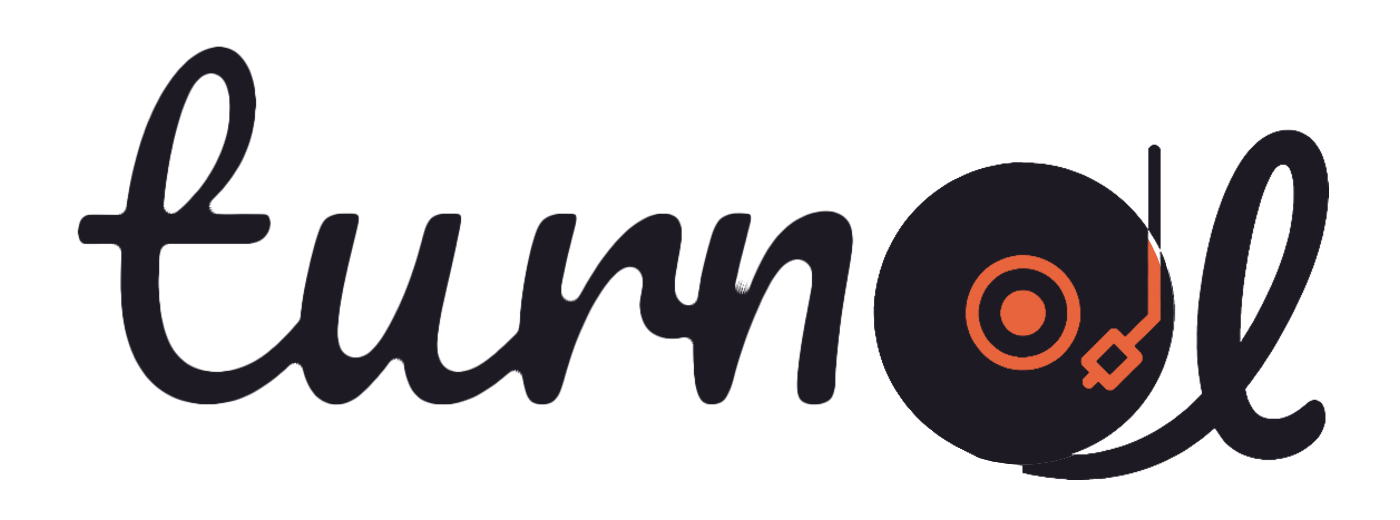
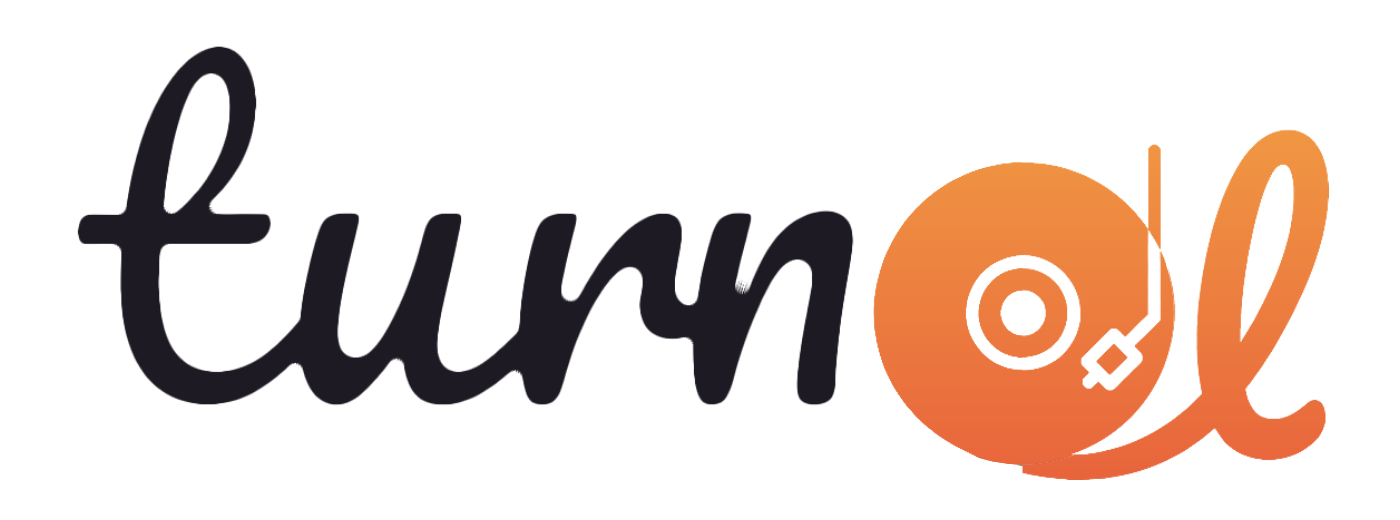
앱 안 워드마크를 아이콘과 같은 처리로: 흰 turn(글로우) + 오렌지 그라데이션 잇
- icons/wordmark.png(다크): turn 크림 흰색 + 은은한 글로우, 잇 마크 오렌지→앰버 그라데이션, 라벨 비움
- icons/wordmark-dark.png(라이트): turn 진한 색(글로우 없음), 잇 마크 오렌지 그라데이션
- 홈 상단·로그인 화면 공통. img src 버전 ?v=4, 서비스워커 캐시 키 v4 → v5

Claude-Session: https://claude.ai/code/session_01RaKXDuWjQRYDcbkM1oTs7b

Changed region(s): [[0.6143, 0.2462, 0.9521, 0.9231]]

diff --git a/index.html b/index.html
@@ -1005,7 +1005,7 @@ html[data-theme="light"] .auth-wordmark.wm-light{display:block}
 
 <div id="auth-screen">
   <div class="auth-card">
-    <div class="auth-logo"><img class="auth-wordmark wm-dark" src="icons/wordmark.png?v=3" alt="turn잇 — Turnit" width="1400" height="520"><img class="auth-wordmark wm-light" src="icons/wordmark-dark.png?v=3" alt="turn잇 — Turnit" width="1400" height="520"></div>
+    <div class="auth-logo"><img class="auth-wordmark wm-dark" src="icons/wordmark.png?v=4" alt="turn잇 — Turnit" width="1400" height="520"><img class="auth-wordmark wm-light" src="icons/wordmark-dark.png?v=4" alt="turn잇 — Turnit" width="1400" height="520"></div>
     <div class="auth-tagline">내 바이닐 컬렉션을 어디서나</div>
     <div class="auth-tabs">
       <button class="auth-tab on" data-mode="login">로그인</button>
@@ -1033,7 +1033,7 @@ html[data-theme="light"] .auth-wordmark.wm-light{display:block}
   <button class="cf-mode-toggle" id="cf-mode-toggle" type="button" aria-label="자켓/LP판 보기 전환" title="자켓 ↔ LP판 보기">
     <span class="cf-mode-ic" id="cf-mode-ic"></span><span id="cf-mode-lab">LP판 보기</span>
   </button>
-  <div class="hdr-logo"><img class="wm-dark" src="icons/wordmark.png?v=3" alt="turn잇 — Turnit" width="1400" height="520"><img class="wm-light" src="icons/wordmark-dark.png?v=3" alt="turn잇 — Turnit" width="1400" height="520"></div>
+  <div class="hdr-logo"><img class="wm-dark" src="icons/wordmark.png?v=4" alt="turn잇 — Turnit" width="1400" height="520"><img class="wm-light" src="icons/wordmark-dark.png?v=4" alt="turn잇 — Turnit" width="1400" height="520"></div>
   <div class="acct" id="acct">
     <button class="acct-btn" id="acct-btn">
       <svg width="13" height="13" viewBox="0 0 24 24" fill="none" stroke="currentColor" stroke-width="2"><circle cx="12" cy="8" r="4"/><path d="M4 21v-1a6 6 0 0 1 6-6h4a6 6 0 0 1 6 6v1"/></svg>

diff --git a/sw.js b/sw.js
@@ -2,7 +2,7 @@
    - 앱 셸(아이콘/매니페스트)은 캐시 우선으로 빠르게
    - 화면(HTML/네비게이션)은 네트워크 우선 → 웹 배포 시 항상 최신 버전 표시
    - Firebase/gstatic 등 외부(cross-origin) 요청은 가로채지 않음 */
-const CACHE = 'lp-archive-v4';   // 아이콘·워드마크 교체 → 캐시 갱신
+const CACHE = 'lp-archive-v5';   // 아이콘·워드마크 교체 → 캐시 갱신
 const SHELL = [
   './manifest.webmanifest',
   './icons/icon-192.png',
